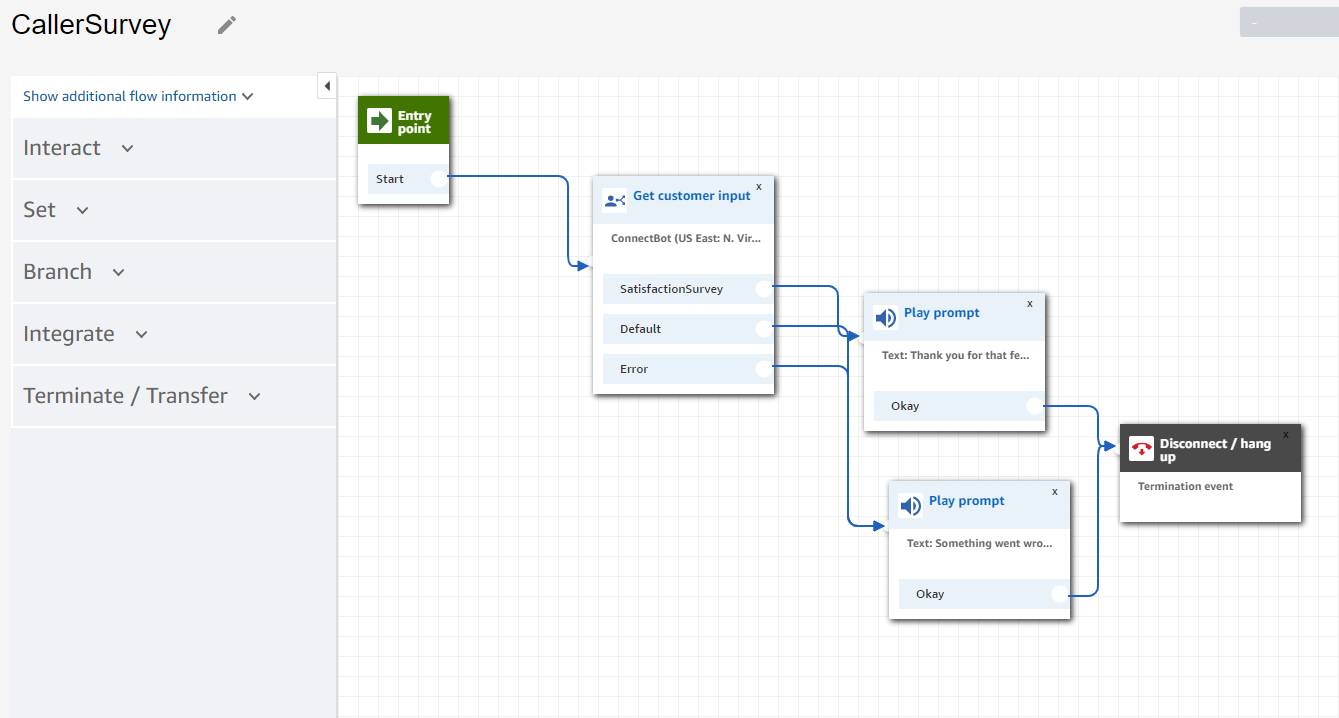
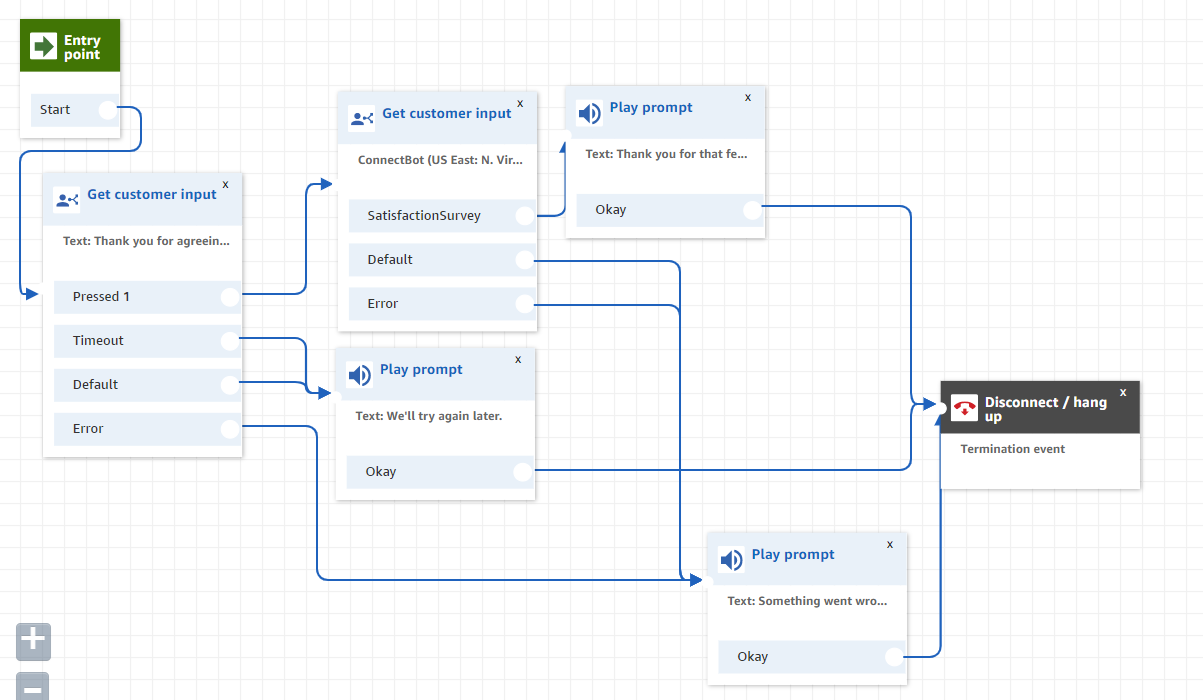
updating

diff --git a/README.md b/README.md
@@ -2,13 +2,14 @@
 
 ## What are we going to build?
 Create a contact center that has the following functionality:
-1. If a phone number has called before say "welcome back", if not, greet the caller.
-2. Ask the person if they would like to be called back later to respond to a survey after the call.
-3. Using their voice to choose, give them the option of waiting on hold, being called back later, or connected to the emergency line.
-4. If they choose to wait, check to see if it is in the hours of operation and if anyone is available. If no one is currently available, put the caller in the callback queue.
-5. If they select the callback queue, place the customer in a callback queue.
-6. If they are connected to the emergency line, look up who is on call and connect the customer to that person.  If they're unable to connect, reach out to someone else.
-7. If the person choose to answer the survey, call the person back to answer a satisfaction survey.
+1. Play a hot message if there is one.
+2. If a phone number has called before say "welcome back", if not, greet the caller.
+3. Ask the person if they would like to be called back later to respond to a survey after the call.
+4. Using their voice to choose, give them the option of waiting on hold, being called back later, or connected to the emergency line.
+5. If they choose to wait, check to see if it is in the hours of operation and if anyone is available. If no one is currently available, put the caller in the callback queue.
+6. If they select the callback queue, place the customer in a callback queue.
+7. If they are connected to the emergency line, look up who is on call and connect the customer to that person.  If they're unable to connect, reach out to someone else.
+8. If the person choose to answer the survey, call the person back to answer a satisfaction survey.
 
 ## Prepare the Environment (if not already done)
 
@@ -44,6 +45,8 @@ Create a contact center that has the following functionality:
    - ContactHistoryTable: A DynamoDB table that will let you track who calls and the last time they called.
    - ContactLookupLambda: A Lambda function that when given CustomerNumber as a parameter (when invoked from Connect) will look up the number in your table and return whether they are a new_caller or return_caller via attribute ContactStatus.
    - ContactRouterLambda: A Lambda function that will return a primary contact and escalation contact (your phone number) via attributes TargetContact and EscalationContact.
+   - HotMessageTable: A DynamoDB table that will let you store hot messages to be played out to the user dynamically.
+   - GetHotMessageLambda: A Lambda function that can return any active hot message.
    - OutboundDialQueue: An SQS Queue that stores people queued for an automated outbound contact.
    - PutContactinQueueLambda: A Lambda function that puts a contact in the outbound dial queue when given CustomerNumber as a parameter from Connect.
    - InitiateOutboundDialLambda: A Lambda function that uses the SQS Queue to trigger an automated outbound dial.
@@ -57,6 +60,7 @@ Create a contact center that has the following functionality:
 5. Under the AWS Lambda section, select and add the Lambda functions created by the Cloudformation template.
    - ContactLookupLambda
    - ContactRouterLambda
+   - GetHotMessage
    - InitiateOutboundDialLambda
 
 # Getting Started with Amazon Connect
@@ -168,11 +172,12 @@ Create a contact center that has the following functionality:
 
 ![](images/8_EntryPoint.png)
 1. Create a new contact flow and import the EntryPoint contact flow.
-2. Modify the first Invoke AWS Lambda function to ensure it is calling a lambda function that looks like ContactLookupLambda.
-3. Modify the Get customer input module to point to the ConnectBot in the account.
-4. Modify the second Invoke AWS Lambda function to ensure it is calling a lambda function that looks like PutContactinQueueLambda.  Modify the OutboundContactFlowId parameter to be the contact flow ID of the survey contact flow.
-5. Modify the Transfer to flow module at the end of the contact flow to point to the InboundLexRouter contact flow.
-6. Save, Publish, and Test.
+2. Modify the first Invoke AWS Lambda function to ensure it is calling a lambda function that looks like GetHotMessageLambda.
+3. Modify the second Invoke AWS Lambda function to ensure it is calling a lambda function that looks like ContactLookupLambda.
+4. Modify the Get customer input module to point to the ConnectBot in the account.
+5. Modify the second Invoke AWS Lambda function to ensure it is calling a lambda function that looks like PutContactinQueueLambda.  Modify the OutboundContactFlowId parameter to be the contact flow ID of the survey contact flow.
+6. Modify the Transfer to flow module at the end of the contact flow to point to the InboundLexRouter contact flow.
+7. Save, Publish, and Test.
 
 # License
 This library is licensed under the MIT-0 License. See the LICENSE file.
